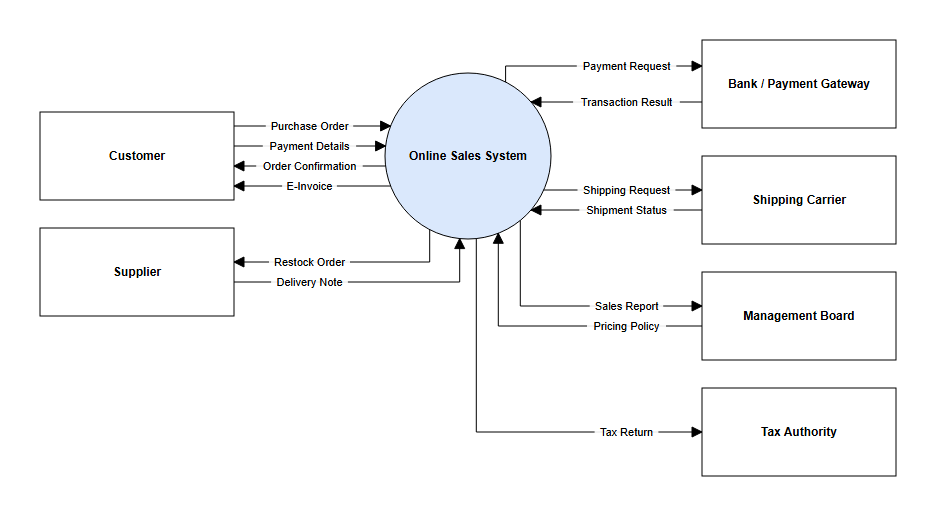
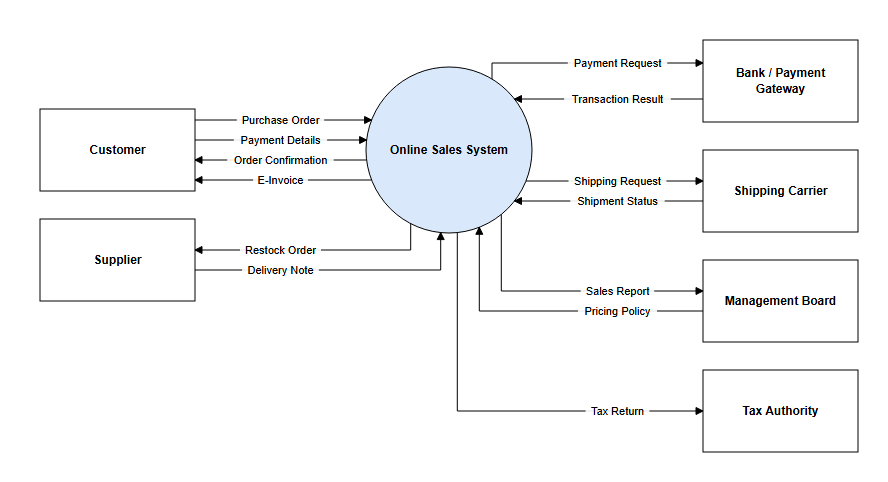
feat(bizcontext): balanced layout for actors with many flows
- At most 4 arrows on the box side facing the system; extra flows leave
  from the box top/bottom edge (vertical then horizontal, nested) so the
  box no longer grows with the flow count.
- Uniform box height capped at ~100px; only boxes that truly need more
  grow. Long entity names wrap at ~120px for narrower boxes.
- Arrows at least as long as the box width; smaller arrowheads (endSize=7).
- preview_svg honours endSize/startSize.

diff --git a/comet-uml-drawio/scripts/uml2drawio.py b/comet-uml-drawio/scripts/uml2drawio.py
@@ -1812,10 +1812,10 @@ def build_bizcontext(spec, warns, origin):
     box = {}   # ext -> [w, h, st, nm, offs]
     base_h = {}
     for s in exts:
-        st, nm = lines_of(s, 160)
+        st, nm = lines_of(s, 120)   # ten dai xuong dong -> hop hep, mui ten dai hon hop
         w, h = text_size("\n".join(st + nm), 12, True)
         base_h[s["id"]] = h
-        box[s["id"]] = [max(120.0, w + 28), max(54.0, h + 24), st, nm, []]
+        box[s["id"]] = [max(110.0, w + 28), max(50.0, h + 20), st, nm, []]
     # mac dinh moi hop cung kich thuoc (rong/cao = hop lon nhat); "uniformSize": false -> hop vua noi dung
     uniform = spec.get("uniformSize", True) is not False
     if uniform and box:
@@ -1823,6 +1823,7 @@ def build_bizcontext(spec, warns, origin):
         for v in box.values():
             v[0] = bw
     hmin = [0.0]   # chieu cao toi thieu chung cua hop (tang dan toi khi on dinh)
+    HCAP = max([100.0] + [v[1] for v in box.values()])   # tran chieu cao chung (~5 luong)
 
     # ---- gan duong: moi phia xet tat ca duong theo thu tu tu tren xuong (dem chung ca cot). Mot nhom lien tiep
     #      o giua (duong i..j-1) cam thang vao hong hinh tron (|y| <= BAND r); cac duong tren gap xuong cam vao
@@ -1830,9 +1831,20 @@ def build_bizcontext(spec, warns, origin):
     #      nhau. Cho doi kieu duong nam giua mot hop thi hop chen them khe SPLIT de hai dau mui ten tren cung tron
     #      khong sat nhau. Ban kinh r = nho nhat ma ca hai phia xep duoc -> hinh tron gon.
     BAND, XMIN, XMAX, VMIN, SPLIT, GY = 0.7, 0.1, 0.85, 16.0, 16.0, 28.0
+    # hop nhieu luong: canh huong ve hinh tron chi nhan toi da INMAX mui ten, luong du chia ra canh tren / canh
+    # duoi hop (di doc ra khoi hop roi re ngang ve hinh tron, cach hop CL) -> hop khong phai cao ra theo so luong
+    INMAX, CL = 4, 16.0
+
+    def split_n(e):
+        """(so luong ra canh tren, so luong ra canh duoi) cua hop e."""
+        n = len(tracks[e])
+        if n <= INMAX:
+            return 0, 0
+        nt = (n - INMAX + 1) // 2
+        return nt, n - INMAX - nt
 
     def layout(c, i, j):
-        hts, offs, ys, top = {}, {}, [], 0.0
+        hts, offs, ys, top, ctr = {}, {}, [], 0.0, {}
         g = 0
         for e in c:
             tr, o, cur = tracks[e], [], 0.0
@@ -1842,10 +1854,21 @@ def build_bizcontext(spec, warns, origin):
                     if g + k in (i, j):
                         cur += SPLIT
                 o.append(cur)
-            h = max(54.0, base_h[e] + 24, cur + 28, hmin[0])
-            hts[e], offs[e] = h, [x - cur / 2 for x in o]
-            ys += [(top + h / 2 + x, e, k) for k, x in enumerate(offs[e])]
-            top += h + GY
+            nt, nb = split_n(e)
+            m = len(tr) - nb   # duong m.. ra canh duoi
+            a0, a1 = (o[nt], o[m - 1]) if tr else (0.0, 0.0)
+            h = max(50.0, base_h[e] + 20, a1 - a0 + 22, hmin[0])
+            o = [x - (a0 + a1) / 2 for x in o]   # nhom duong canh trong o giua hop
+            if nt:
+                dt = min(0.0, -h / 2 - CL - o[nt - 1])
+                o[:nt] = [x + dt for x in o[:nt]]
+            if nb:
+                db = max(0.0, h / 2 + CL - o[m])
+                o[m:] = [x + db for x in o[m:]]
+            lo, hi = min([-h / 2] + o), max([h / 2] + o)
+            hts[e], offs[e], ctr[e] = h, o, top - lo
+            ys += [(ctr[e] + x, e, k) for k, x in enumerate(o)]
+            top += hi - lo + GY
             g += len(tr)
         n = len(ys)
         if i < j:
@@ -1854,10 +1877,7 @@ def build_bizcontext(spec, warns, origin):
             mid = (ys[i - 1][0] + ys[i][0]) / 2
         else:
             mid = (top - GY) / 2
-        cys, t0 = {}, 0.0
-        for e in c:
-            cys[e] = t0 + hts[e] / 2 - mid
-            t0 += hts[e] + GY
+        cys = {e: ctr[e] - mid for e in c}
         return hts, offs, cys, [(y - mid, e, k) for y, e, k in ys]
 
     def place(lst, r, P):
@@ -1910,10 +1930,12 @@ def build_bizcontext(spec, warns, origin):
             if all(v is not None for v in res.values()):
                 break
             r += 2
-        hmax = max([h for v in res.values() for h in v[0].values()] or [0.0])
-        if not uniform or hmax <= hmin[0] + 0.01:
+        # xep lai voi moi hop cao bang hop cao nhat, nhung chi toi HCAP: hop nhieu luong hon tu cao rieng, cac hop
+        # it luong khong phinh theo (tranh hop rong to, mat can doi)
+        target = min(HCAP, max([h for v in res.values() for h in v[0].values()] or [0.0]))
+        if not uniform or target <= hmin[0] + 0.01:
             break
-        hmin[0] = hmax   # xep lai voi moi hop cao bang hop cao nhat
+        hmin[0] = target
     a = b = r   # hinh tron
     cy, turn = {}, {}   # turn: (ext, j) -> x re (so duong, ca 2 phia)
     for sd, (hts, offs, cys, tn) in res.items():
@@ -1922,8 +1944,10 @@ def build_bizcontext(spec, warns, origin):
         for k, x in tn.items():
             turn[k] = -x if sd == "left" else x
 
-    # ---- khoang trong giua cot hop va hinh tron: vua nhan dai nhat cua phia do
-    gap = {sd: max([80.0] + [t[3] + 44 for e in c for t in tracks[e]]) for sd, c in cols.items()}
+    # ---- khoang trong giua cot hop va hinh tron: vua nhan dai nhat cua phia do, it nhat bang chieu rong hop
+    #      -> mui ten dai, can doi voi hop/hinh tron
+    bwm = max([v[0] for v in box.values()] or [0.0])
+    gap = {sd: max([120.0, bwm] + [t[3] + 64 for e in c for t in tracks[e]]) for sd, c in cols.items()}
     xin = {"left": -a - gap["left"], "right": a + gap["right"]}
     rects = {}
     for sd, c in cols.items():
@@ -1942,14 +1966,23 @@ def build_bizcontext(spec, warns, origin):
     for sd, c in cols.items():
         sg = -1 if sd == "left" else 1
         for e in c:
+            nt, nb = split_n(e)
+            n, (w, h) = len(tracks[e]), box[e][:2]
+            step = min(14.0, (w - 24) / max(1, nt, nb))
             for j, (rid, d, lab, lw, lh) in enumerate(tracks[e]):
                 y = cy[e] + box[e][4][j]
-                p0 = (xin[sd], y)
+                if j < nt or j >= n - nb:
+                    # ra canh tren/duoi: duong cang xa hop thi chan cang xa canh trong -> long nhau, khong cat
+                    k = nt - 1 - j if j < nt else j - (n - nb)
+                    xs = xin[sd] + sg * (12 + k * step)
+                    head = [(xs, cy[e] + (h / 2 if j >= nt else -h / 2)), (xs, y)]
+                else:
+                    head = [(xin[sd], y)]
                 if (e, j) in turn:
                     x = turn[(e, j)]
-                    pts = [p0, (x, y), (x, ell_y(x, -1 if y < 0 else 1))]
+                    pts = head + [(x, y), (x, ell_y(x, -1 if y < 0 else 1))]
                 else:
-                    pts = [p0, (ell_x(y, sg), y)]
+                    pts = head + [(ell_x(y, sg), y)]
                 lc = (xin[sd] - sg * gap[sd] / 2, y)
                 if lab:
                     labs[(e, j)] = (lc[0] - lw / 2, y - lh / 2, lc[0] + lw / 2, y + lh / 2)
@@ -1984,7 +2017,7 @@ def build_bizcontext(spec, warns, origin):
             src, tgt, fs, ft = cid, e, fc, fe
         else:
             src, tgt, fs, ft = e, cid, fe, fc
-        style = (EDGE_BASE + "endArrow=block;endFill=1;"
+        style = (EDGE_BASE.replace("endSize=10;", "endSize=7;") + "endArrow=block;endFill=1;"
                  "exitX=%s;exitY=%s;exitDx=0;exitDy=0;exitPerimeter=0;"
                  "entryX=%s;entryY=%s;entryDx=0;entryDy=0;entryPerimeter=0;"
                  % (_n(fs[0], 4), _n(fs[1], 4), _n(ft[0], 4), _n(ft[1], 4)))

diff --git a/comet-uml-drawio/tests/run_tests.py b/comet-uml-drawio/tests/run_tests.py
@@ -1085,7 +1085,8 @@ class TestGenerator(unittest.TestCase):
         self.assertGreater(len({(round(R2[i][2] - R2[i][0], 1), round(R2[i][3] - R2[i][1], 1)) for i in ext}), 1)
 
     def test_bizcontext_many_flows_compact(self):
-        # hop co nhieu luong: hop cao ra, hinh tron chi nho vua du (luong du thi gap vao dinh/day), khong cat nhau
+        # hop co nhieu luong: canh trong toi da 4 mui ten, luong du ra canh tren/duoi hop (hop khong cao ra), hinh
+        # tron chi nho vua du (luong du thi gap vao dinh/day), khong cat nhau
         els = [{"id": "s", "type": "system", "name": "Hệ thống"},
                {"id": "a", "type": "external", "name": "Khách hàng", "side": "left"},
                {"id": "b", "type": "external", "name": "Nhân viên", "side": "left"},
@@ -1095,8 +1096,20 @@ class TestGenerator(unittest.TestCase):
         rel.append({"from": "c", "to": "s", "label": "Luồng c"})
         xml, cs, G = self.clean({"diagram": "bizcontext", "title": "T", "elements": els, "relations": rel})
         R = rects(G)
-        self.assertGreater(R["a"][3] - R["a"][1], 12 * 18)                              # hop cao du 12 mui ten
+        self.assertLessEqual(R["a"][3] - R["a"][1], 100.5)                              # hop khong cao theo 12 luong
+        ends = defaultdict(int)                                                         # canh hop noi dau mui ten
+        for e in edges(cs):
+            p = G.edges[e.get("id")][1]
+            x, y = p[0] if e.get("source") == "a" else p[-1] if e.get("target") == "a" else (None, None)
+            if x is not None:
+                ends["in" if abs(x - R["a"][2]) < 0.5 else "top" if abs(y - R["a"][1]) < 0.5 else
+                     "bottom" if abs(y - R["a"][3]) < 0.5 else "?"] += 1
+        self.assertEqual(dict(ends), {"in": 4, "top": 4, "bottom": 4})
         self.assertLess(R["s"][2] - R["s"][0], 400)                                     # hinh tron khong phinh
+        self.assertLessEqual(R["c"][3] - R["c"][1], 100.5)                              # hop it luong khong phinh theo
+        self.assertEqual(R["a"][2] - R["a"][0], R["c"][2] - R["c"][0])                  # van cung chieu rong
+        self.assertGreaterEqual(R["s"][0] - R["a"][2], R["a"][2] - R["a"][0])           # mui ten >= rong hop
+        self.assertTrue(all(style(c).get("endSize") == "7" for c in edges(cs)))         # dau mui ten nho
         segs = [(p, q) for _, pts in G.edges.values() for p, q in zip(pts, pts[1:])]
         for i, (p, q) in enumerate(segs):                                               # khong cat nhau
             for u, v in segs[i + 1:]:

diff --git a/comet-uml-drawio/scripts/preview_svg.py b/comet-uml-drawio/scripts/preview_svg.py
@@ -283,10 +283,10 @@ def render_svg(model):
                      % (" ".join("%.1f,%.1f" % p for p in pts), dash))
         ea = st.get("endArrow", "classic")
         if ea and ea != "none":
-            S.append(marker(ea, st.get("endFill", "1") != "0", pts[-1], pts[-2]))
+            S.append(marker(ea, st.get("endFill", "1") != "0", pts[-1], pts[-2], float(st.get("endSize", 10))))
         sa = st.get("startArrow", "none")
         if sa and sa != "none":
-            S.append(marker(sa, st.get("startFill", "1") != "0", pts[0], pts[1]))
+            S.append(marker(sa, st.get("startFill", "1") != "0", pts[0], pts[1], float(st.get("startSize", 10))))
         for p in pts:
             maxx, maxy = max(maxx, p[0]), max(maxy, p[1])
     for i, (r, owner, d, cell) in enumerate(G.labels):

diff --git a/comet-uml-drawio/commands/uml-bizcontext/SKILL.md b/comet-uml-drawio/commands/uml-bizcontext/SKILL.md
@@ -44,8 +44,9 @@ bằng ngôn ngữ của họ.
   (không gộp), thứ tự luồng trong spec = thứ tự từ trên xuống ở cạnh hộp. Mũi tên đi ngang ra từ cạnh hộp, tên
   luồng nằm ngang trên đoạn ngang (dễ đọc); các luồng ngang tầm hình tròn cắm thẳng vào hông, luồng cao hơn /
   thấp hơn gập vuông góc một lần cắm vào đỉnh / đáy, các đường gập lồng nhau → không cắt nhau, không nhãn nào
-  đè đường/nhãn khác. Nhiều luồng thì hộp tự cao ra, hình tròn chỉ nới vừa đủ; mọi hộp
-  cùng kích thước (theo hộp lớn nhất) – `"uniformSize": false` để mỗi hộp vừa nội dung riêng. Không vẽ khung ngoài
+  đè đường/nhãn khác. Cạnh hộp hướng về hệ thống nhận tối đa 4 mũi tên; hộp nhiều luồng hơn thì luồng dư tự
+  ra cạnh trên / dưới hộp (hộp không cao ra), hình tròn chỉ nới vừa đủ; mọi hộp cùng kích thước (theo hộp lớn
+  nhất, cao tối đa ~100px) – `"uniformSize": false` để mỗi hộp vừa nội dung riêng. Không vẽ khung ngoài
   (`"frame": true` nếu cần khung + tiêu đề). Tên luồng nên ngắn (≤ ~6 từ);
   dài quá 240px sẽ tự xuống dòng.
 - Mỗi thực thể ngoài có ít nhất 1 luồng (B3). Luồng giữa hai thực thể ngoài nằm ngoài phạm vi – bỏ.
